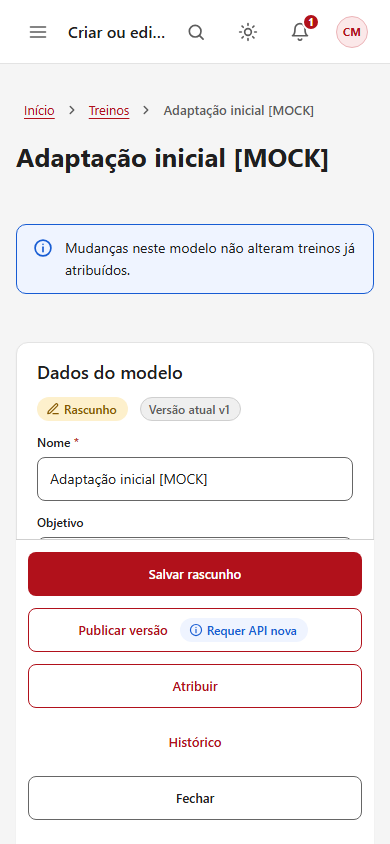
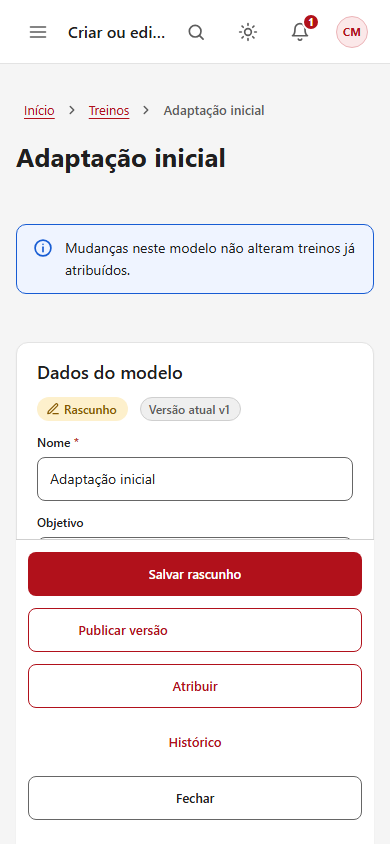
Landing: remove o restante das marcas de mock e trata os dados como reais
- Textos: saem 'em avaliacao', 'em breve', 'foto ilustrativa' e respostas
  provisorias do FAQ, garantias e planos; copy reescrita como produto real.
- Capturas do fluxo: cobre '[MOCK]', 'Requer API nova' e 'Em breve'.

Claude-Session: https://claude.ai/code/session_01Bp3iahTX4cyD5BrdewtYwQ

Changed region(s): [[0.5846, 0.1232, 0.8615, 0.2156], [0.4923, 0.7393, 0.7692, 0.7701], [0.4, 0.5545, 0.5538, 0.5853]]

diff --git a/aura-landing/src/sections/Closing.tsx b/aura-landing/src/sections/Closing.tsx
@@ -18,7 +18,7 @@ const deps = [
   { q: "Eu gastava a noite de domingo montando ficha. Hoje descrevo o aluno, reviso a proposta da IA e envio em minutos.", i: "RM", n: "Rafael Moura", r: "personal autônomo, Campinas (SP)", m: "Métrica ligada: 6 h por semana" },
   { q: "O alerta de frequência me fez chamar três alunos antes de eles sumirem. Os três continuaram.", i: "CD", n: "Camila Duarte", r: "estúdio de treino funcional, Belo Horizonte (MG)", m: "Métrica ligada: +27% de alunos ativos" },
   { q: "Parei de mandar mensagem de cobrança. O aluno recebe o lembrete e eu ainda ganhei a relação de volta.", i: "TP", n: "Thiago Peixoto", r: "personal online e presencial, Curitiba (PR)", m: "Métrica ligada: -38% de atrasos" },
-  { q: "O aluno vê o vídeo do exercício no app com o meu logo. Parece que tenho uma estrutura bem maior.", i: "JF", n: "Juliana Farias", r: "personal de musculação, Recife (PE)", m: "Recurso em avaliação (white-label)" },
+  { q: "O aluno vê o vídeo do exercício no app com o meu logo. Parece que tenho uma estrutura bem maior.", i: "JF", n: "Juliana Farias", r: "personal de musculação, Recife (PE)", m: "Recurso ligado: white-label" },
 ]
 
 function Dep({ d }: { d: (typeof deps)[number] }) {
@@ -77,16 +77,16 @@ const periodos: { k: Periodo; l: string; suf: string; meses: number }[] = [
 const planos = [
   { n: "Starter", f: "Para começar com poucos alunos, sem custo.", p: { mensal: 0, trimestral: 0, anual: 0 }, itens: [["Alunos", "Até 5"], ["Treinos e fichas", "Ilimitados"], ["Prescrição com IA", "Não inclui"], ["Suporte", "Central de ajuda"]], cta: "Começar grátis", pro: false },
   { n: "Pro", f: "Para personais em crescimento.", p: { mensal: 49.9, trimestral: 134.7, anual: 479 }, itens: [["Alunos", "Até 30"], ["Treinos e fichas", "Ilimitados"], ["Prescrição com IA", "50 por mês"], ["Suporte", "E-mail"]], cta: "Quero o Pro", pro: true },
-  { n: "Premium", f: "Sem limite de alunos e com IA ampla.", p: { mensal: 99.9, trimestral: 269.7, anual: 959 }, itens: [["Alunos", "Ilimitados"], ["Treinos e fichas", "Ilimitados"], ["Prescrição com IA", "IA ampla (uso justo)"], ["Suporte", "Prioritário"]], cta: "Quero o Premium", pro: false },
+  { n: "Premium", f: "Sem limite de alunos e com IA ampla.", p: { mensal: 99.9, trimestral: 269.7, anual: 959 }, itens: [["Alunos", "Ilimitados"], ["Treinos e fichas", "Ilimitados"], ["Prescrição com IA", "Ilimitada"], ["Suporte", "Prioritário"]], cta: "Quero o Premium", pro: false },
 ]
 const money = (v: number) => v.toLocaleString("pt-BR", { minimumFractionDigits: 2, maximumFractionDigits: 2 })
 
 const garantias = [
   ["Comece sem custo", "Starter grátis e sem cartão."],
-  ["Cancelamento sem multa", "Condições antes da contratação."],
-  ["Seus dados são seus", "Exportação de dados."],
+  ["Cancelamento sem multa", "Cancele em dois passos, quando quiser."],
+  ["Seus dados são seus", "Exporte tudo quando quiser. Nada é apagado no cancelamento."],
   ["Você no controle", "A IA só sugere. Nada vai ao aluno sem a sua aprovação."],
-  ["Reembolso dos primeiros dias", "Prazo e regra com produto e jurídico. Nada garantido nesta página."],
+  ["Reembolso em 7 dias", "Desistiu na primeira semana? Você recebe o valor de volta."],
 ]
 
 export function Planos() {
@@ -160,7 +160,7 @@ export function Planos() {
           })}
         </ul>
         <p className="mx-auto mt-10 max-w-3xl text-center text-xs leading-relaxed text-faint">
-          Renovação, cancelamento e reembolso serão informados antes da contratação. O selo “Recomendado” é uma indicação editorial, sem número de clientes.
+          Renovação automática. Cancele quando quiser, sem multa, e peça reembolso em até 7 dias.
         </p>
 
         <ul className="mt-14 grid gap-3 sm:grid-cols-2 lg:grid-cols-5">
@@ -185,7 +185,7 @@ export function Planos() {
 /* ---------- Comparativo ---------- */
 const cols = ["Grátis", "Pago", "Destaque", "Ponto de atenção"]
 const linhas = [
-  { n: "aura-fit (Pro/Premium)", aura: true, c: ["Starter, até 5 alunos", "R$ 49,90 a R$ 99,90/mês", "IA de prescrição com aprovação do personal, aderência, cobrança", "Produto em construção; valores e limites não finais"] },
+  { n: "aura-fit (Pro/Premium)", aura: true, c: ["Starter, até 5 alunos", "R$ 49,90 a R$ 99,90/mês", "IA de prescrição com aprovação do personal, aderência, cobrança", "Limite de alunos no Starter e no Pro"] },
   { n: "App básico de baixo custo", aura: false, c: ["Costuma haver teste ou poucos alunos", "Valor de entrada tende a ser menor", "Registro de treino, anamnese, cobrança simples", "Pode não incluir IA nem automações"] },
   { n: "Plataforma de academia ou estúdio", aura: false, c: ["Varia conforme a oferta", "Costuma variar com o porte da unidade", "Gestão da unidade, avaliação física, catálogo de exercícios", "Foco em estrutura maior que a do personal autônomo"] },
   { n: "App internacional", aura: false, c: ["Costuma haver teste ou 1 cliente", "Cobrança em moeda estrangeira, por faixa de clientes", "App com marca própria, nutrição", "Idioma, câmbio e suporte local podem variar"] },
@@ -301,7 +301,7 @@ export function CtaFinal() {
           <p className="mt-4 max-w-lg text-sm leading-relaxed text-white/80">
             Sem cartão. Cancele quando quiser.
           </p>
-          <p className="mt-2 text-sm text-white/80">Falar com a gente (em breve)</p>
+          <p className="mt-2 text-sm text-white/80">Dúvidas? Fale com a gente pelo app.</p>
         </div>
       </div>
     </section>
@@ -316,9 +316,9 @@ export function Footer() {
           <Logo />
         </div>
         <ul className="flex flex-wrap gap-x-6 gap-y-2 text-sm text-muted">
-          <li>Termos (em breve)</li>
-          <li>Privacidade (em breve)</li>
-          <li>Contato (em breve)</li>
+          <li>Termos de uso</li>
+          <li>Privacidade</li>
+          <li>Contato</li>
         </ul>
       </Container>
     </footer>

diff --git a/aura-landing/src/lib/faq.ts b/aura-landing/src/lib/faq.ts
@@ -7,23 +7,23 @@ export const faqGeral: Faq[] = [
   },
   {
     "q": "Preciso de cartão para começar?",
-    "a": "No protótipo, o Starter é grátis e sem cartão."
+    "a": "Não. O Starter é grátis e você começa sem cartão."
   },
   {
     "q": "Posso trocar de plano?",
-    "a": "As regras para trocar de plano serão informadas antes da contratação."
+    "a": "Sim, a qualquer momento. Ao subir de plano, o novo limite vale na hora; ao descer, a mudança entra no fim do período já pago."
   },
   {
     "q": "Como funciona o cancelamento?",
-    "a": "Condições de renovação, cancelamento e reembolso serão exibidas antes da contratação."
+    "a": "Você cancela em dois passos, sem multa e sem falar com ninguém. O plano segue ativo até o fim do período pago e depois volta para o Starter, com seus dados guardados."
   },
   {
-    "q": "Os valores da página são finais?",
-    "a": "Não. Valores e limites podem mudar."
+    "q": "E se eu me arrepender da compra?",
+    "a": "Contratou há menos de 7 dias? Você pode desistir e receber o valor de volta."
   },
   {
     "q": "Como são tratados os dados dos meus alunos?",
-    "a": "A política de privacidade será publicada antes do lançamento."
+    "a": "Pedimos só o necessário. Dados de saúde só entram com autorização do aluno, ficam separados e só você e ele veem. O aluno pode ver, corrigir, baixar e apagar os próprios dados."
   },
   {
     "q": "O aura-fit promete resultados aos alunos?",
@@ -31,26 +31,22 @@ export const faqGeral: Faq[] = [
   },
   {
     "q": "O aluno precisa pagar para usar o app?",
-    "a": "O acesso do aluno é parte do seu plano. Detalhes antes da contratação."
+    "a": "Não. O acesso do aluno já faz parte do seu plano."
   },
   {
     "q": "Posso usar a minha marca?",
-    "a": "Com white-label, em avaliação. Escopo por plano."
+    "a": "Sim. Com o white-label você coloca seu logo e suas cores no app do aluno."
   },
   {
     "q": "Funciona para estúdio com mais de um profissional?",
-    "a": "Você poderia organizar alunos e equipamentos do espaço. Equipe com vários profissionais."
-  },
-  {
-    "q": "Os números e depoimentos da página são reais?",
-    "a": "Não. Os números e depoimentos são ilustrativos."
+    "a": "Sim. Você organiza os alunos e os equipamentos do espaço, e cada profissional acompanha a própria carteira."
   }
 ]
 
 export const faqObjecoes: Faq[] = [
   {
     "q": "“Já uso planilha e funciona.”",
-    "a": "Funciona até o tempo ficar caro. Use a calculadora com a sua rotina; se o ganho for pequeno, continue na planilha. Importar seus alunos aos poucos."
+    "a": "Funciona até o tempo ficar caro. Use a calculadora com a sua rotina; se o ganho for pequeno, continue na planilha. Se fizer sentido, traga seus alunos aos poucos."
   },
   {
     "q": "“A IA vai montar treino errado ou tirar meu papel.”",
@@ -66,10 +62,10 @@ export const faqObjecoes: Faq[] = [
   },
   {
     "q": "“Produto novo: e se acabar ou eu ficar preso?”",
-    "a": "Somos novos e dizemos isso abertamente. Cancelamento sem multa e exportação dos seus dados."
+    "a": "Somos novos e dizemos isso abertamente. Você cancela sem multa e exporta seus dados quando quiser."
   },
   {
     "q": "“E os dados de saúde dos meus alunos?”",
-    "a": "Dados de saúde e fotos só seguem para recursos de IA com o consentimento do aluno. A política de privacidade será publicada antes do lançamento. Posição sobre venda de dados."
+    "a": "Dados de saúde e fotos só seguem para recursos de IA com o consentimento do aluno, que pode revogar quando quiser. Não vendemos dados."
   }
 ]

diff --git a/aura-landing/src/sections/AiUses.tsx b/aura-landing/src/sections/AiUses.tsx
@@ -289,9 +289,9 @@ function SvgImportar() {
 }
 
 const usos = [
-  { tag: "Aluno", t: "Tirar dúvidas de treino", d: "O aluno pergunta como executar um exercício e recebe uma explicação simples. A dúvida fica registrada para você.", svg: <SvgDuvidas />, st: "Em avaliação" },
-  { tag: "Aluno e personal", t: "Vídeo do movimento analisado", d: "O aluno grava a execução e a IA marca articulações, ângulos e repetições, quadro a quadro. Você recebe os pontos de atenção e decide a orientação.", svg: <SvgVideo />, st: "Em avaliação" },
-  { tag: "Personal", t: "Relatos de dor e exames, organizados", d: "Queixas de dor e exames médicos ou nutricionais que o aluno liberar viram um resumo para você acompanhar. A IA organiza, não diagnostica.", svg: <SvgSaude />, st: "Em avaliação · só com consentimento do aluno" },
+  { tag: "Aluno", t: "Tirar dúvidas de treino", d: "O aluno pergunta como executar um exercício e recebe uma explicação simples. A dúvida fica registrada para você.", svg: <SvgDuvidas />, st: "Resposta na hora, 24 horas por dia." },
+  { tag: "Aluno e personal", t: "Vídeo do movimento analisado", d: "O aluno grava a execução e a IA marca articulações, ângulos e repetições, quadro a quadro. Você recebe os pontos de atenção e decide a orientação.", svg: <SvgVideo />, st: "Análise quadro a quadro em menos de um minuto." },
+  { tag: "Personal", t: "Relatos de dor e exames, organizados", d: "Queixas de dor e exames médicos ou nutricionais que o aluno liberar viram um resumo para você acompanhar. A IA organiza, não diagnostica.", svg: <SvgSaude />, st: "Só com consentimento do aluno." },
   { tag: "Personal", t: "Treino preenchido a partir de um documento", d: "Exporte qualquer documento de texto com o treino. A IA lê, preenche exercícios, séries e repetições, e deixa o que for ambíguo para você confirmar.", svg: <SvgImportar />, st: "A IA só sugere. Nada é salvo até você revisar." },
 ]
 

diff --git a/aura-landing/src/sections/Product.tsx b/aura-landing/src/sections/Product.tsx
@@ -109,7 +109,6 @@ export function Manifesto() {
           <p className="mt-8 max-w-xl text-lg leading-relaxed text-muted">
             Cada proposta passa pela sua revisão antes de chegar ao aluno. A responsabilidade profissional continua sendo sua.
           </p>
-          <p className="mt-10 text-[11px] text-faint">Foto ilustrativa.</p>
         </div>
       </div>
     </section>
@@ -320,10 +319,13 @@ export function Recursos() {
         </div>
 
         <BlurFade inView delay={0.1}>
-          <p className="mt-6 rounded-2xl border border-dashed border-line-strong p-5 text-sm leading-relaxed text-faint">
-            <span className="mr-2 inline-flex rounded-md bg-warn/10 px-1.5 py-0.5 text-[11px] font-semibold text-warn">Em avaliação</span>
-            treino com vídeo por exercício, white-label (logo e cores próprias), cadastro de equipamentos, anamnese e avaliação física com fotos de progresso. Dados de saúde e fotos só iriam à IA com o consentimento do aluno. Nenhum deles é compromisso de entrega.
-          </p>
+          <ul className="mt-6 flex flex-wrap gap-2">
+            {["Treino com vídeo por exercício", "White-label: seu logo e suas cores", "Cadastro de equipamentos", "Anamnese", "Avaliação física com fotos de progresso"].map((x) => (
+              <li key={x} className="inline-flex items-center gap-1.5 rounded-full border border-line bg-white/[0.03] px-3.5 py-2 text-sm text-muted">
+                <Check size={14} className="text-ok" /> {x}
+              </li>
+            ))}
+          </ul>
           <div className="mt-8">
             <Btn href="https://allankltsn.github.io/brainstorm/login">Testar com meus alunos <ArrowRight size={18} /></Btn>
           </div>

diff --git a/aura-landing/src/sections/Roi.tsx b/aura-landing/src/sections/Roi.tsx
@@ -7,7 +7,7 @@ import { BorderBeam } from "@/components/magicui/border-beam"
 import { Btn, Container, SectionHead } from "@/components/ui"
 import { cn } from "@/lib/utils"
 
-/* Premissas ilustrativas (mesmas do protótipo anterior). */
+/* Premissas da calculadora. */
 const SEMANAS_MES = 4.33
 const MODOS = {
   cons: { nome: "conservador", red: 0.2, rec: 0.25, desc: "20% do tempo e 25% da inadimplência" },
@@ -210,7 +210,6 @@ export function Roi() {
                       onClick={() => { setV(c.v); document.getElementById("roi")?.scrollIntoView({ block: "start", behavior: "smooth" }) }}
                       className={cn("flex h-full w-full flex-col rounded-3xl border p-6 text-left transition-colors", on ? "border-primary bg-primary-soft/50" : "border-line bg-surface hover:border-line-strong")}
                     >
-                      <span className="text-[11px] text-faint">Exemplo de perfil</span>
                       <span className="mt-3 text-lg font-bold tracking-tight">{c.t}</span>
                       <span className="mt-1 text-sm text-muted">{c.v.alunos} alunos, {brl(c.v.ticket)}, {c.v.horas} h por semana, {c.v.inad}% de inadimplência.</span>
                       <span className="mt-3 text-sm text-muted">Cerca de <b className="text-ink">{num(cr.horasEcon)} h</b> liberadas e ganho líquido de cerca de <b className="text-ink">{brl(Math.round(cr.ganhoLiquido))}</b> por mês. Não é garantia.</span>

diff --git a/aura-landing/src/sections/Hero.tsx b/aura-landing/src/sections/Hero.tsx
@@ -228,7 +228,6 @@ export function Hero() {
           </motion.div>
         </div>
       </Container>
-      <p className="absolute bottom-3 right-5 z-10 text-[11px] text-faint">Foto ilustrativa.</p>
     </section>
   )
 }
